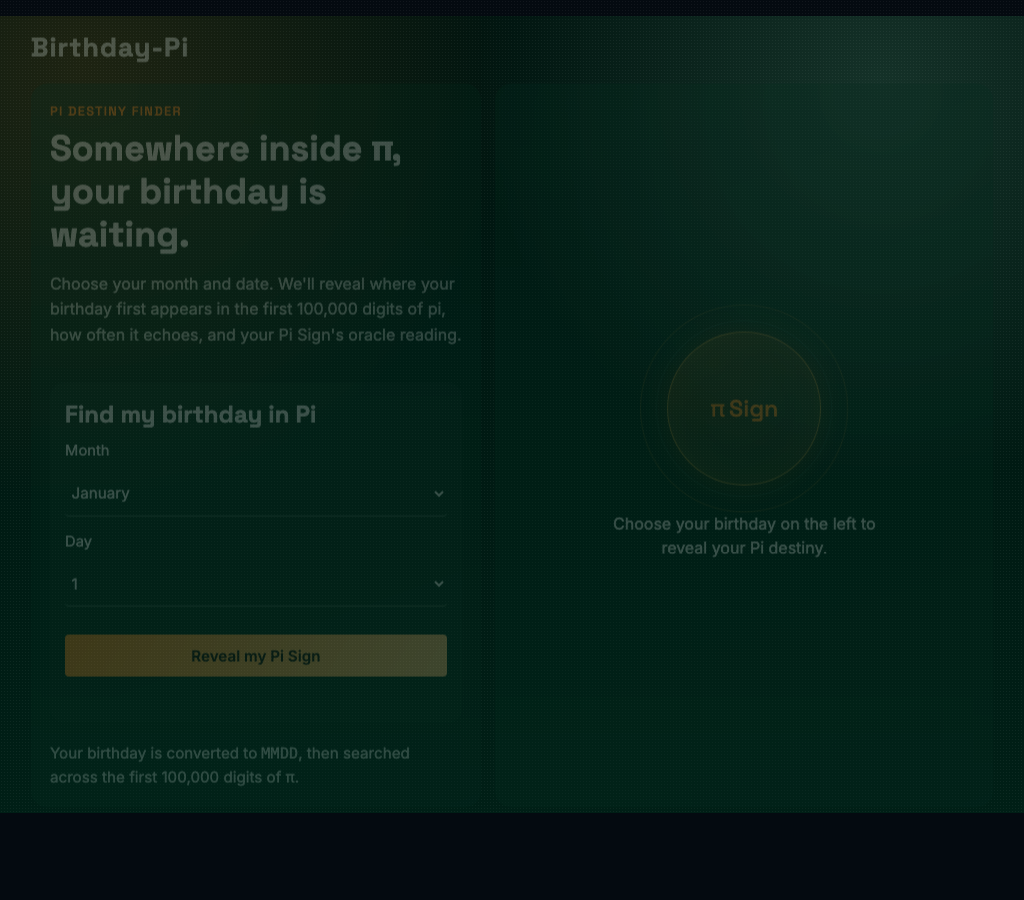
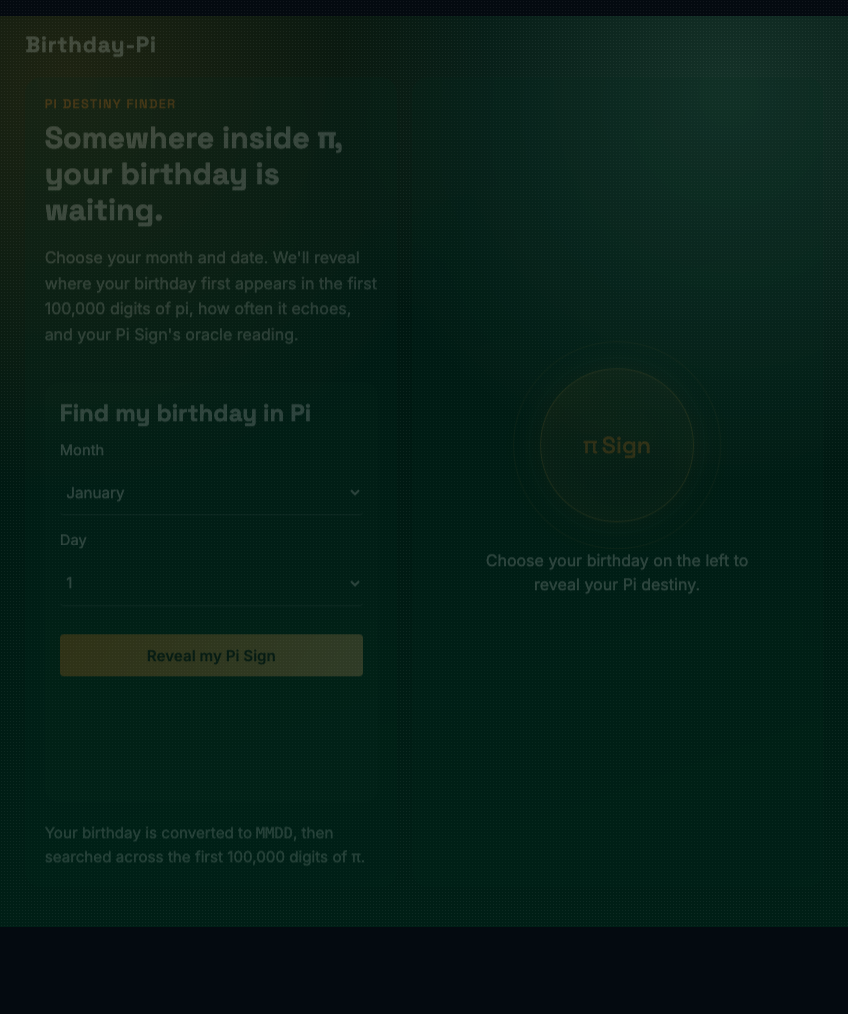
chore: update screenshot and adjust results container alignment
Change results container to flex-start alignment by default, with center alignment only for initial state. Adjust mobile breakpoint from 980px to 820px.

diff --git a/styles.css b/styles.css
@@ -202,10 +202,11 @@ button:hover {
   overflow: auto;
   display: flex;
   flex-direction: column;
-  justify-content: center;
+  justify-content: flex-start;
 }
 
 .results.initial {
+  justify-content: center;
   align-items: center;
   text-align: center;
 }
@@ -358,7 +359,7 @@ button:hover {
   }
 }
 
-@media (max-width: 980px) {
+@media (max-width: 820px) {
   body {
     height: auto;
     min-height: 100svh;
